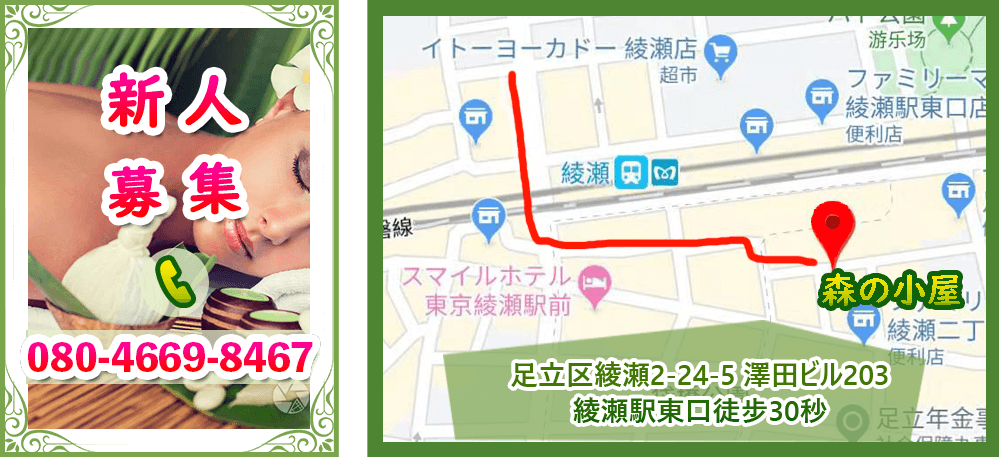
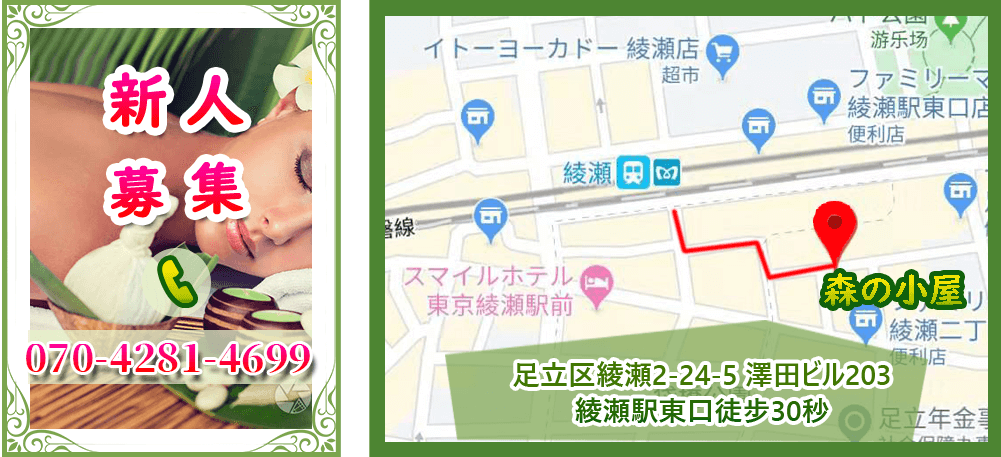
ｈ
d

diff --git a/recruit.html b/recruit.html
@@ -1,2 +1,2 @@
-<!DOCTYPE html><html><head><meta charset="utf-8"/><title>森の小屋in綾瀬駅東口30秒リラクセーション　マッサージ　メンズエステ　リンパマッサージ【森の小屋】</title><meta name="keywords" content="森の小屋綾瀬駅東口30秒エステ,森の小屋アジア，アロママッサージ,精力回復,ストレス解消,アロマオイル,ボディケア,フットケア"/><meta name="description" content="綾瀬駅東口30秒本格アロママッサージ，森の小屋でございます，オイルマッサージで精力を増強します，仕事のストレスを解消いただきます。"/><meta name="viewport" content="width=device-width,user-scalable=yes"/><script src="https://cdn.staticfile.org/jquery/1.10.2/jquery.min.js"></script><link rel="stylesheet" href="swiper.min.css"/><link rel="stylesheet" href="css/nav_top.css"/></head><body class="body"><div class="top"><a class="tel" href="tel://08046698467"><div class="tels"></div></a></div><div class="navLage"><div class="navButton"><a href="index.html"><img src="img/images/nav_01.png"/></a></div><div class="navButton"><a href="system.html"><img src="img/images/nav_02.png"/></a></div><div class="navButton"><a href="girl.html"><img src="img/images/nav_03.png"/></a></div><div class="navButton"><a href="room.html"><img src="img/images/nav_07.png"/></a></div><div class="navButton"><a href="access.html"><img src="img/images/nav_05.png"/></a></div><div class="navButton"><a href="recruit.html"><img src="img/images/nav_06.png"/></a></div></div></body></html><link rel="stylesheet" href="css/4page.css"/><div class="Titles"><div class="recruittitle"></div></div><div class="recruit"><div><p>業&nbsp;種</p><p>リラクセーション</p></div><div style="height: 115px;"><p>給&nbsp;与</p><p style="height: 80px;">日払い OK!<br/>※高額保証制度有り<br/>ボーナス制度有り</p></div><div><p>時&nbsp;間&nbsp;</p><p>11:00～Last</p></div><div><p>資&nbsp;格&nbsp;</p><p>18歳～30歳位まで</p></div><div><p>勤務日&nbsp;</p><p>自&nbsp;由</p></div><div><p>応&nbsp;募&nbsp;</p><p>お電話の上、お気軽にご来店下さい。</p></div><div style="height: 136px;"><p>待&nbsp;遇&nbsp;</p><p style="height: 103px;">完全全額日払制、高額保証制度有り、個室待機制(TV・冷蔵庫・シャワー完備)、衛生管理万全、ノルマ・罰金一切なし、店内見学&amp;1日体験入店大歓迎</p></div><div><p>電&nbsp;話&nbsp;</p><p> <a href="tel://08046698467">tel：080-4669-8467</a></p></div></div><div class="telephonea"><a href="tel://08046698467"><div class="tele"></div></a></div><div class="endimg"><a href="http://www.a-side.com/" title="アジアンエステのエーサイド" target="_blank"><img src="http://www.a-side.com/banner/a-side_1m.gif" width="150" height="40" style="object-fit: contain;"  alt="アジアンエステのエーサイド"><br></a>
+<!DOCTYPE html><html><head><meta charset="utf-8"/><title>森の小屋in綾瀬駅東口30秒リラクセーション　マッサージ　メンズエステ　リンパマッサージ【森の小屋】</title><meta name="keywords" content="森の小屋綾瀬駅東口30秒エステ,森の小屋アジア，アロママッサージ,精力回復,ストレス解消,アロマオイル,ボディケア,フットケア"/><meta name="description" content="綾瀬駅東口30秒本格アロママッサージ，森の小屋でございます，オイルマッサージで精力を増強します，仕事のストレスを解消いただきます。"/><meta name="viewport" content="width=device-width,user-scalable=yes"/><script src="https://cdn.staticfile.org/jquery/1.10.2/jquery.min.js"></script><link rel="stylesheet" href="swiper.min.css"/><link rel="stylesheet" href="css/nav_top.css"/></head><body class="body"><div class="top"><a class="tel" href="tel://07042814699"><div class="tels"></div></a></div><div class="navLage"><div class="navButton"><a href="index.html"><img src="img/images/nav_01.png"/></a></div><div class="navButton"><a href="system.html"><img src="img/images/nav_02.png"/></a></div><div class="navButton"><a href="girl.html"><img src="img/images/nav_03.png"/></a></div><div class="navButton"><a href="room.html"><img src="img/images/nav_07.png"/></a></div><div class="navButton"><a href="access.html"><img src="img/images/nav_05.png"/></a></div><div class="navButton"><a href="recruit.html"><img src="img/images/nav_06.png"/></a></div></div></body></html><link rel="stylesheet" href="css/4page.css"/><div class="Titles"><div class="recruittitle"></div></div><div class="recruit"><div><p>業&nbsp;種</p><p>リラクセーション</p></div><div style="height: 115px;"><p>給&nbsp;与</p><p style="height: 80px;">日払い OK!<br/>※高額保証制度有り<br/>ボーナス制度有り</p></div><div><p>時&nbsp;間&nbsp;</p><p>11:00～Last</p></div><div><p>資&nbsp;格&nbsp;</p><p>18歳～30歳位まで</p></div><div><p>勤務日&nbsp;</p><p>自&nbsp;由</p></div><div><p>応&nbsp;募&nbsp;</p><p>お電話の上、お気軽にご来店下さい。</p></div><div style="height: 136px;"><p>待&nbsp;遇&nbsp;</p><p style="height: 103px;">完全全額日払制、高額保証制度有り、個室待機制(TV・冷蔵庫・シャワー完備)、衛生管理万全、ノルマ・罰金一切なし、店内見学&amp;1日体験入店大歓迎</p></div><div><p>電&nbsp;話&nbsp;</p><p> <a href="tel://07042814699">tel：070ー4281ー4699</a></p></div></div><div class="telephonea"><a href="tel://07042814699"><div class="tele"></div></a></div><div class="endimg"><a href="http://www.a-side.com/" title="アジアンエステのエーサイド" target="_blank"><img src="http://www.a-side.com/banner/a-side_1m.gif" width="150" height="40" style="object-fit: contain;"  alt="アジアンエステのエーサイド"><br></a>
 <a href="https://www.es-navi.com/" target="_blank"><img src="https://img.es-navi.com/banners/es-navi_150x40.gif" width="150" height="40" style="object-fit: contain;" alt="エステナビ～全国のエステ検索の決定版！"><br></a></div><h1>森の小屋in綾瀬駅東口30秒</h1><script src="swiper.min.js"></script><script src="js/index.js"></script><script>divHeight(2.0,"focus");</script>

diff --git a/access.html b/access.html
@@ -1,2 +1,2 @@
-<!DOCTYPE html><html><head><meta charset="utf-8"/><title>森の小屋in綾瀬駅東口30秒リラクセーション　マッサージ　メンズエステ　リンパマッサージ【森の小屋】</title><meta name="keywords" content="森の小屋綾瀬駅東口30秒エステ,森の小屋アジア，アロママッサージ,精力回復,ストレス解消,アロマオイル,ボディケア,フットケア"/><meta name="description" content="綾瀬駅東口30秒本格アロママッサージ，森の小屋でございます，オイルマッサージで精力を増強します，仕事のストレスを解消いただきます。"/><meta name="viewport" content="width=device-width,user-scalable=yes"/><script src="https://cdn.staticfile.org/jquery/1.10.2/jquery.min.js"></script><link rel="stylesheet" href="swiper.min.css"/><link rel="stylesheet" href="css/nav_top.css"/></head><body class="body"><div class="top"><a class="tel" href="tel://08046698467"><div class="tels"></div></a></div><div class="navLage"><div class="navButton"><a href="index.html"><img src="img/images/nav_01.png"/></a></div><div class="navButton"><a href="system.html"><img src="img/images/nav_02.png"/></a></div><div class="navButton"><a href="girl.html"><img src="img/images/nav_03.png"/></a></div><div class="navButton"><a href="room.html"><img src="img/images/nav_07.png"/></a></div><div class="navButton"><a href="access.html"><img src="img/images/nav_05.png"/></a></div><div class="navButton"><a href="recruit.html"><img src="img/images/nav_06.png"/></a></div></div></body></html><link rel="stylesheet" href="css/4page.css"/><div class="Titles"><div class="accesstitle"></div></div><div class="access"><iframe src="https://www.google.com/maps/embed?pb=!1m18!1m12!1m3!1d3237.5662031985717!2d139.82432901513218!3d35.761465633175085!2m3!1f0!2f0!3f0!3m2!1i1024!2i768!4f13.1!3m3!1m2!1s0x60188fb99d93e459%3A0x48030381bbdf1557!2z44CSMTIwLTAwMDUgVMWNa3nFjS10bywgQWRhY2hpIENpdHksIEF5YXNlLCAyLWNoxY1tZeKIkjI04oiSNSDmvqTnlLDjg5Pjg6s!5e0!3m2!1szh-CN!2sjp!4v1581159376765!5m2!1szh-CN!2sjp" width="600" height="750" frameborder="0" style="border:0;" allowfullscreen=""></iframe><div class="address">綾瀬駅東口30秒</div><div class="address">足立区綾瀬2-24-5 澤田ビル203</div><div class="teleph"><a href="tel://08046698467">tel：080-4669-8467</a></div></div><div class="telephonea"><a href="tel://080-4669-8467"><div class="tele"></div></a></div><div class="endimg"><a href="http://www.a-side.com/" title="アジアンエステのエーサイド" target="_blank"><img src="http://www.a-side.com/banner/a-side_1m.gif" width="150" height="40" style="object-fit: contain;"  alt="アジアンエステのエーサイド"><br></a>
+<!DOCTYPE html><html><head><meta charset="utf-8"/><title>森の小屋in綾瀬駅東口30秒リラクセーション　マッサージ　メンズエステ　リンパマッサージ【森の小屋】</title><meta name="keywords" content="森の小屋綾瀬駅東口30秒エステ,森の小屋アジア，アロママッサージ,精力回復,ストレス解消,アロマオイル,ボディケア,フットケア"/><meta name="description" content="綾瀬駅東口30秒本格アロママッサージ，森の小屋でございます，オイルマッサージで精力を増強します，仕事のストレスを解消いただきます。"/><meta name="viewport" content="width=device-width,user-scalable=yes"/><script src="https://cdn.staticfile.org/jquery/1.10.2/jquery.min.js"></script><link rel="stylesheet" href="swiper.min.css"/><link rel="stylesheet" href="css/nav_top.css"/></head><body class="body"><div class="top"><a class="tel" href="tel://07042814699"><div class="tels"></div></a></div><div class="navLage"><div class="navButton"><a href="index.html"><img src="img/images/nav_01.png"/></a></div><div class="navButton"><a href="system.html"><img src="img/images/nav_02.png"/></a></div><div class="navButton"><a href="girl.html"><img src="img/images/nav_03.png"/></a></div><div class="navButton"><a href="room.html"><img src="img/images/nav_07.png"/></a></div><div class="navButton"><a href="access.html"><img src="img/images/nav_05.png"/></a></div><div class="navButton"><a href="recruit.html"><img src="img/images/nav_06.png"/></a></div></div></body></html><link rel="stylesheet" href="css/4page.css"/><div class="Titles"><div class="accesstitle"></div></div><div class="access"><iframe src="https://www.google.com/maps/embed?pb=!1m18!1m12!1m3!1d3237.5662031985717!2d139.82432901513218!3d35.761465633175085!2m3!1f0!2f0!3f0!3m2!1i1024!2i768!4f13.1!3m3!1m2!1s0x60188fb99d93e459%3A0x48030381bbdf1557!2z44CSMTIwLTAwMDUgVMWNa3nFjS10bywgQWRhY2hpIENpdHksIEF5YXNlLCAyLWNoxY1tZeKIkjI04oiSNSDmvqTnlLDjg5Pjg6s!5e0!3m2!1szh-CN!2sjp!4v1581159376765!5m2!1szh-CN!2sjp" width="600" height="750" frameborder="0" style="border:0;" allowfullscreen=""></iframe><div class="address">綾瀬駅東口30秒</div><div class="address">足立区綾瀬2-24-5 澤田ビル203</div><div class="teleph"><a href="tel://07042814699">tel：070-4281-4699</a></div></div><div class="telephonea"><a href="tel://07042814699"><div class="tele"></div></a></div><div class="endimg"><a href="http://www.a-side.com/" title="アジアンエステのエーサイド" target="_blank"><img src="http://www.a-side.com/banner/a-side_1m.gif" width="150" height="40" style="object-fit: contain;"  alt="アジアンエステのエーサイド"><br></a>
 <a href="https://www.es-navi.com/" target="_blank"><img src="https://img.es-navi.com/banners/es-navi_150x40.gif" width="150" height="40" style="object-fit: contain;" alt="エステナビ～全国のエステ検索の決定版！"><br></a></div><h1>森の小屋in綾瀬駅東口30秒</h1><script src="swiper.min.js"></script><script src="js/index.js"></script>

diff --git a/index.html b/index.html
@@ -1,2 +1,2 @@
-<!DOCTYPE html><html><head><meta charset="utf-8"/><title>森の小屋in綾瀬駅東口30秒リラクセーション　マッサージ　メンズエステ　リンパマッサージ【森の小屋】</title><meta name="keywords" content="森の小屋綾瀬駅東口30秒エステ,森の小屋アジア，アロママッサージ,精力回復,ストレス解消,アロマオイル,ボディケア,フットケア"/><meta name="description" content="綾瀬駅東口30秒本格アロママッサージ，森の小屋でございます，オイルマッサージで精力を増強します，仕事のストレスを解消いただきます。"/><meta name="viewport" content="width=device-width,user-scalable=yes"/><script src="https://cdn.staticfile.org/jquery/1.10.2/jquery.min.js"></script><link rel="stylesheet" href="swiper.min.css"/><link rel="stylesheet" href="css/nav_top.css"/></head><body class="body"><div class="top"><a class="tel" href="tel://08046698467"><div class="tels"></div></a></div><div class="navLage"><div class="navButton"><a href="index.html"><img src="img/images/nav_01.png"/></a></div><div class="navButton"><a href="system.html"><img src="img/images/nav_02.png"/></a></div><div class="navButton"><a href="girl.html"><img src="img/images/nav_03.png"/></a></div><div class="navButton"><a href="room.html"><img src="img/images/nav_07.png"/></a></div><div class="navButton"><a href="access.html"><img src="img/images/nav_05.png"/></a></div><div class="navButton"><a href="recruit.html"><img src="img/images/nav_06.png"/></a></div></div></body></html><div class="asd"></div><div class="wrap"><ul id="pcGirlAll"></ul></div><link rel="stylesheet" href="css/index.css"/><div class="event" id="event"></div><div class="newsTitle"></div><div class="aaa"><div class="girlPhoto"><div class="swiper-container" id="Swiper0"><div class="swiper-wrapper" id="PcGirlPhoto"></div></div></div><div class="newsAndMolir"><div class="news"><div class="newsText"><div class="text" id="catchMynews1"></div></div></div></div></div><div class="indexlink1"></div><div class="telephonea"><a href="tel://08046698467"><div class="tele"></div></a></div><div class="endimg"><a href="http://www.a-side.com/" title="アジアンエステのエーサイド" target="_blank"><img src="http://www.a-side.com/banner/a-side_1m.gif" width="150" height="40" style="object-fit: contain;"  alt="アジアンエステのエーサイド"><br></a>
+<!DOCTYPE html><html><head><meta charset="utf-8"/><title>森の小屋in綾瀬駅東口30秒リラクセーション　マッサージ　メンズエステ　リンパマッサージ【森の小屋】</title><meta name="keywords" content="森の小屋綾瀬駅東口30秒エステ,森の小屋アジア，アロママッサージ,精力回復,ストレス解消,アロマオイル,ボディケア,フットケア"/><meta name="description" content="綾瀬駅東口30秒本格アロママッサージ，森の小屋でございます，オイルマッサージで精力を増強します，仕事のストレスを解消いただきます。"/><meta name="viewport" content="width=device-width,user-scalable=yes"/><script src="https://cdn.staticfile.org/jquery/1.10.2/jquery.min.js"></script><link rel="stylesheet" href="swiper.min.css"/><link rel="stylesheet" href="css/nav_top.css"/></head><body class="body"><div class="top"><a class="tel" href="tel://07042814699"><div class="tels"></div></a></div><div class="navLage"><div class="navButton"><a href="index.html"><img src="img/images/nav_01.png"/></a></div><div class="navButton"><a href="system.html"><img src="img/images/nav_02.png"/></a></div><div class="navButton"><a href="girl.html"><img src="img/images/nav_03.png"/></a></div><div class="navButton"><a href="room.html"><img src="img/images/nav_07.png"/></a></div><div class="navButton"><a href="access.html"><img src="img/images/nav_05.png"/></a></div><div class="navButton"><a href="recruit.html"><img src="img/images/nav_06.png"/></a></div></div></body></html><div class="asd"></div><div class="wrap"><ul id="pcGirlAll"></ul></div><link rel="stylesheet" href="css/index.css"/><div class="event" id="event"></div><div class="newsTitle"></div><div class="aaa"><div class="girlPhoto"><div class="swiper-container" id="Swiper0"><div class="swiper-wrapper" id="PcGirlPhoto"></div></div></div><div class="newsAndMolir"><div class="news"><div class="newsText"><div class="text" id="catchMynews1"></div></div></div></div></div><div class="indexlink1"></div><div class="telephonea"><a href="tel://07042814699"><div class="tele"></div></a></div><div class="endimg"><a href="http://www.a-side.com/" title="アジアンエステのエーサイド" target="_blank"><img src="http://www.a-side.com/banner/a-side_1m.gif" width="150" height="40" style="object-fit: contain;"  alt="アジアンエステのエーサイド"><br></a>
 <a href="https://www.es-navi.com/" target="_blank"><img src="https://img.es-navi.com/banners/es-navi_150x40.gif" width="150" height="40" style="object-fit: contain;" alt="エステナビ～全国のエステ検索の決定版！"><br></a></div><h1>森の小屋in綾瀬駅東口30秒</h1><script src="swiper.min.js"></script><script src="js/index.js"></script><script src="js/girl.js"></script>

diff --git a/girl.html b/girl.html
@@ -1,4 +1,4 @@
-<!DOCTYPE html><html><head><meta charset="utf-8"/><title>森の小屋in綾瀬駅東口30秒リラクセーション　マッサージ　メンズエステ　リンパマッサージ【森の小屋】</title><meta name="keywords" content="森の小屋綾瀬駅東口30秒エステ,森の小屋アジア，アロママッサージ,精力回復,ストレス解消,アロマオイル,ボディケア,フットケア"/><meta name="description" content="綾瀬駅東口30秒本格アロママッサージ，森の小屋でございます，オイルマッサージで精力を増強します，仕事のストレスを解消いただきます。"/><meta name="viewport" content="width=device-width,user-scalable=yes"/><script src="https://cdn.staticfile.org/jquery/1.10.2/jquery.min.js"></script><link rel="stylesheet" href="swiper.min.css"/><link rel="stylesheet" href="css/nav_top.css"/></head><body class="body"><div class="top"><a class="tel" href="tel://08046698467"><div class="tels"></div></a></div><div class="navLage"><div class="navButton"><a href="index.html"><img src="img/images/nav_01.png"/></a></div><div class="navButton"><a href="system.html"><img src="img/images/nav_02.png"/></a></div><div class="navButton"><a href="girl.html"><img src="img/images/nav_03.png"/></a></div><div class="navButton"><a href="room.html"><img src="img/images/nav_07.png"/></a></div><div class="navButton"><a href="access.html"><img src="img/images/nav_05.png"/></a></div><div class="navButton"><a href="recruit.html"><img src="img/images/nav_06.png"/></a></div></div></body></html><link rel="stylesheet" href="css/staff.css"/><div class="Titles"><div class="stafftitle"></div></div><div id="getMyStaff"></div><div class="telephonea"><a href="tel://08046698467"><div class="tele"></div></a></div><div class="endimg"><a href="http://www.a-side.com/" title="アジアンエステのエーサイド" target="_blank"><img src="http://www.a-side.com/banner/a-side_1m.gif" width="150" height="40" style="object-fit: contain;"  alt="アジアンエステのエーサイド"><br></a>
+<!DOCTYPE html><html><head><meta charset="utf-8"/><title>森の小屋in綾瀬駅東口30秒リラクセーション　マッサージ　メンズエステ　リンパマッサージ【森の小屋】</title><meta name="keywords" content="森の小屋綾瀬駅東口30秒エステ,森の小屋アジア，アロママッサージ,精力回復,ストレス解消,アロマオイル,ボディケア,フットケア"/><meta name="description" content="綾瀬駅東口30秒本格アロママッサージ，森の小屋でございます，オイルマッサージで精力を増強します，仕事のストレスを解消いただきます。"/><meta name="viewport" content="width=device-width,user-scalable=yes"/><script src="https://cdn.staticfile.org/jquery/1.10.2/jquery.min.js"></script><link rel="stylesheet" href="swiper.min.css"/><link rel="stylesheet" href="css/nav_top.css"/></head><body class="body"><div class="top"><a class="tel" href="tel://07042814699"><div class="tels"></div></a></div><div class="navLage"><div class="navButton"><a href="index.html"><img src="img/images/nav_01.png"/></a></div><div class="navButton"><a href="system.html"><img src="img/images/nav_02.png"/></a></div><div class="navButton"><a href="girl.html"><img src="img/images/nav_03.png"/></a></div><div class="navButton"><a href="room.html"><img src="img/images/nav_07.png"/></a></div><div class="navButton"><a href="access.html"><img src="img/images/nav_05.png"/></a></div><div class="navButton"><a href="recruit.html"><img src="img/images/nav_06.png"/></a></div></div></body></html><link rel="stylesheet" href="css/staff.css"/><div class="Titles"><div class="stafftitle"></div></div><div id="getMyStaff"></div><div class="telephonea"><a href="tel://07042814699"><div class="tele"></div></a></div><div class="endimg"><a href="http://www.a-side.com/" title="アジアンエステのエーサイド" target="_blank"><img src="http://www.a-side.com/banner/a-side_1m.gif" width="150" height="40" style="object-fit: contain;"  alt="アジアンエステのエーサイド"><br></a>
 <a href="https://www.es-navi.com/" target="_blank"><img src="https://img.es-navi.com/banners/es-navi_150x40.gif" width="150" height="40" style="object-fit: contain;" alt="エステナビ～全国のエステ検索の決定版！"><br></a></div><h1>森の小屋in綾瀬駅東口30秒</h1><script src="swiper.min.js"></script><script src="js/index.js"></script><script>var myApi ="https://test-cms-alpha.herokuapp.com/sites/4/profiles.json"
  var myList = document.getElementById('getMyStaff');
 function loadMyStaff(){

diff --git a/room.html b/room.html
@@ -1,2 +1,2 @@
-<!DOCTYPE html><html><head><meta charset="utf-8"/><title>森の小屋in綾瀬駅東口30秒リラクセーション　マッサージ　メンズエステ　リンパマッサージ【森の小屋】</title><meta name="keywords" content="森の小屋綾瀬駅東口30秒エステ,森の小屋アジア，アロママッサージ,精力回復,ストレス解消,アロマオイル,ボディケア,フットケア"/><meta name="description" content="綾瀬駅東口30秒本格アロママッサージ，森の小屋でございます，オイルマッサージで精力を増強します，仕事のストレスを解消いただきます。"/><meta name="viewport" content="width=device-width,user-scalable=yes"/><script src="https://cdn.staticfile.org/jquery/1.10.2/jquery.min.js"></script><link rel="stylesheet" href="swiper.min.css"/><link rel="stylesheet" href="css/nav_top.css"/></head><body class="body"><div class="top"><a class="tel" href="tel://08046698467"><div class="tels"></div></a></div><div class="navLage"><div class="navButton"><a href="index.html"><img src="img/images/nav_01.png"/></a></div><div class="navButton"><a href="system.html"><img src="img/images/nav_02.png"/></a></div><div class="navButton"><a href="girl.html"><img src="img/images/nav_03.png"/></a></div><div class="navButton"><a href="room.html"><img src="img/images/nav_07.png"/></a></div><div class="navButton"><a href="access.html"><img src="img/images/nav_05.png"/></a></div><div class="navButton"><a href="recruit.html"><img src="img/images/nav_06.png"/></a></div></div></body></html><link rel="stylesheet" href="css/4page.css"/><div class="Titles"><div class="roomtitle"></div></div><div class="room"></div><div class="telephonea"><a href="tel://08046698467"><div class="tele"></div></a></div><div class="endimg"><a href="http://www.a-side.com/" title="アジアンエステのエーサイド" target="_blank"><img src="http://www.a-side.com/banner/a-side_1m.gif" width="150" height="40" style="object-fit: contain;"  alt="アジアンエステのエーサイド"><br></a>
+<!DOCTYPE html><html><head><meta charset="utf-8"/><title>森の小屋in綾瀬駅東口30秒リラクセーション　マッサージ　メンズエステ　リンパマッサージ【森の小屋】</title><meta name="keywords" content="森の小屋綾瀬駅東口30秒エステ,森の小屋アジア，アロママッサージ,精力回復,ストレス解消,アロマオイル,ボディケア,フットケア"/><meta name="description" content="綾瀬駅東口30秒本格アロママッサージ，森の小屋でございます，オイルマッサージで精力を増強します，仕事のストレスを解消いただきます。"/><meta name="viewport" content="width=device-width,user-scalable=yes"/><script src="https://cdn.staticfile.org/jquery/1.10.2/jquery.min.js"></script><link rel="stylesheet" href="swiper.min.css"/><link rel="stylesheet" href="css/nav_top.css"/></head><body class="body"><div class="top"><a class="tel" href="tel://07042814699"><div class="tels"></div></a></div><div class="navLage"><div class="navButton"><a href="index.html"><img src="img/images/nav_01.png"/></a></div><div class="navButton"><a href="system.html"><img src="img/images/nav_02.png"/></a></div><div class="navButton"><a href="girl.html"><img src="img/images/nav_03.png"/></a></div><div class="navButton"><a href="room.html"><img src="img/images/nav_07.png"/></a></div><div class="navButton"><a href="access.html"><img src="img/images/nav_05.png"/></a></div><div class="navButton"><a href="recruit.html"><img src="img/images/nav_06.png"/></a></div></div></body></html><link rel="stylesheet" href="css/4page.css"/><div class="Titles"><div class="roomtitle"></div></div><div class="room"></div><div class="telephonea"><a href="tel://07042814699"><div class="tele"></div></a></div><div class="endimg"><a href="http://www.a-side.com/" title="アジアンエステのエーサイド" target="_blank"><img src="http://www.a-side.com/banner/a-side_1m.gif" width="150" height="40" style="object-fit: contain;"  alt="アジアンエステのエーサイド"><br></a>
 <a href="https://www.es-navi.com/" target="_blank"><img src="https://img.es-navi.com/banners/es-navi_150x40.gif" width="150" height="40" style="object-fit: contain;" alt="エステナビ～全国のエステ検索の決定版！"><br></a></div><h1>森の小屋in綾瀬駅東口30秒</h1><script src="swiper.min.js"></script><script src="js/index.js"></script>

diff --git a/system.html b/system.html
@@ -1,3 +1,3 @@
-<!DOCTYPE html><html><head><meta charset="utf-8"/><title>森の小屋in綾瀬駅東口30秒リラクセーション　マッサージ　メンズエステ　リンパマッサージ【森の小屋】</title><meta name="keywords" content="森の小屋綾瀬駅東口30秒エステ,森の小屋アジア，アロママッサージ,精力回復,ストレス解消,アロマオイル,ボディケア,フットケア"/><meta name="description" content="綾瀬駅東口30秒本格アロママッサージ，森の小屋でございます，オイルマッサージで精力を増強します，仕事のストレスを解消いただきます。"/><meta name="viewport" content="width=device-width,user-scalable=yes"/><script src="https://cdn.staticfile.org/jquery/1.10.2/jquery.min.js"></script><link rel="stylesheet" href="swiper.min.css"/><link rel="stylesheet" href="css/nav_top.css"/></head><body class="body"><div class="top"><a class="tel" href="tel://08046698467"><div class="tels"></div></a></div><div class="navLage"><div class="navButton"><a href="index.html"><img src="img/images/nav_01.png"/></a></div><div class="navButton"><a href="system.html"><img src="img/images/nav_02.png"/></a></div><div class="navButton"><a href="girl.html"><img src="img/images/nav_03.png"/></a></div><div class="navButton"><a href="room.html"><img src="img/images/nav_07.png"/></a></div><div class="navButton"><a href="access.html"><img src="img/images/nav_05.png"/></a></div><div class="navButton"><a href="recruit.html"><img src="img/images/nav_06.png"/></a></div></div></body></html><link rel="stylesheet" href="css/4page.css"/><div class="system" id="system"></div><div class="telephonea"><a href="tel://08046698467"><div class="tele"></div></a></div><div class="endimg"><a href="http://www.a-side.com/" title="アジアンエステのエーサイド" target="_blank"><img src="http://www.a-side.com/banner/a-side_1m.gif" width="150" height="40" style="object-fit: contain;"  alt="アジアンエステのエーサイド"><br></a>
+<!DOCTYPE html><html><head><meta charset="utf-8"/><title>森の小屋in綾瀬駅東口30秒リラクセーション　マッサージ　メンズエステ　リンパマッサージ【森の小屋】</title><meta name="keywords" content="森の小屋綾瀬駅東口30秒エステ,森の小屋アジア，アロママッサージ,精力回復,ストレス解消,アロマオイル,ボディケア,フットケア"/><meta name="description" content="綾瀬駅東口30秒本格アロママッサージ，森の小屋でございます，オイルマッサージで精力を増強します，仕事のストレスを解消いただきます。"/><meta name="viewport" content="width=device-width,user-scalable=yes"/><script src="https://cdn.staticfile.org/jquery/1.10.2/jquery.min.js"></script><link rel="stylesheet" href="swiper.min.css"/><link rel="stylesheet" href="css/nav_top.css"/></head><body class="body"><div class="top"><a class="tel" href="tel://07042814699"><div class="tels"></div></a></div><div class="navLage"><div class="navButton"><a href="index.html"><img src="img/images/nav_01.png"/></a></div><div class="navButton"><a href="system.html"><img src="img/images/nav_02.png"/></a></div><div class="navButton"><a href="girl.html"><img src="img/images/nav_03.png"/></a></div><div class="navButton"><a href="room.html"><img src="img/images/nav_07.png"/></a></div><div class="navButton"><a href="access.html"><img src="img/images/nav_05.png"/></a></div><div class="navButton"><a href="recruit.html"><img src="img/images/nav_06.png"/></a></div></div></body></html><link rel="stylesheet" href="css/4page.css"/><div class="system" id="system"></div><div class="telephonea"><a href="tel://07042814699"><div class="tele"></div></a></div><div class="endimg"><a href="http://www.a-side.com/" title="アジアンエステのエーサイド" target="_blank"><img src="http://www.a-side.com/banner/a-side_1m.gif" width="150" height="40" style="object-fit: contain;"  alt="アジアンエステのエーサイド"><br></a>
 <a href="https://www.es-navi.com/" target="_blank"><img src="https://img.es-navi.com/banners/es-navi_150x40.gif" width="150" height="40" style="object-fit: contain;" alt="エステナビ～全国のエステ検索の決定版！"><br></a></div><h1>森の小屋in綾瀬駅東口30秒</h1><script src="swiper.min.js"></script><script src="js/index.js"></script><script>divHeight(0.38,"system");
 divHeight(2.0,"focus");</script>

diff --git a/girl_big.html b/girl_big.html
@@ -1,4 +1,4 @@
-<!DOCTYPE html><html><head><meta charset="utf-8"/><title>森の小屋in綾瀬駅東口30秒リラクセーション　マッサージ　メンズエステ　リンパマッサージ【森の小屋】</title><meta name="keywords" content="森の小屋綾瀬駅東口30秒エステ,森の小屋アジア，アロママッサージ,精力回復,ストレス解消,アロマオイル,ボディケア,フットケア"/><meta name="description" content="綾瀬駅東口30秒本格アロママッサージ，森の小屋でございます，オイルマッサージで精力を増強します，仕事のストレスを解消いただきます。"/><meta name="viewport" content="width=device-width,user-scalable=yes"/><script src="https://cdn.staticfile.org/jquery/1.10.2/jquery.min.js"></script><link rel="stylesheet" href="swiper.min.css"/><link rel="stylesheet" href="css/nav_top.css"/></head><body class="body"><div class="top"><a class="tel" href="tel://08046698467"><div class="tels"></div></a></div><div class="navLage"><div class="navButton"><a href="index.html"><img src="img/images/nav_01.png"/></a></div><div class="navButton"><a href="system.html"><img src="img/images/nav_02.png"/></a></div><div class="navButton"><a href="girl.html"><img src="img/images/nav_03.png"/></a></div><div class="navButton"><a href="room.html"><img src="img/images/nav_07.png"/></a></div><div class="navButton"><a href="access.html"><img src="img/images/nav_05.png"/></a></div><div class="navButton"><a href="recruit.html"><img src="img/images/nav_06.png"/></a></div></div></body></html><script>var d =window.location.search.split("")
+<!DOCTYPE html><html><head><meta charset="utf-8"/><title>森の小屋in綾瀬駅東口30秒リラクセーション　マッサージ　メンズエステ　リンパマッサージ【森の小屋】</title><meta name="keywords" content="森の小屋綾瀬駅東口30秒エステ,森の小屋アジア，アロママッサージ,精力回復,ストレス解消,アロマオイル,ボディケア,フットケア"/><meta name="description" content="綾瀬駅東口30秒本格アロママッサージ，森の小屋でございます，オイルマッサージで精力を増強します，仕事のストレスを解消いただきます。"/><meta name="viewport" content="width=device-width,user-scalable=yes"/><script src="https://cdn.staticfile.org/jquery/1.10.2/jquery.min.js"></script><link rel="stylesheet" href="swiper.min.css"/><link rel="stylesheet" href="css/nav_top.css"/></head><body class="body"><div class="top"><a class="tel" href="tel://07042814699"><div class="tels"></div></a></div><div class="navLage"><div class="navButton"><a href="index.html"><img src="img/images/nav_01.png"/></a></div><div class="navButton"><a href="system.html"><img src="img/images/nav_02.png"/></a></div><div class="navButton"><a href="girl.html"><img src="img/images/nav_03.png"/></a></div><div class="navButton"><a href="room.html"><img src="img/images/nav_07.png"/></a></div><div class="navButton"><a href="access.html"><img src="img/images/nav_05.png"/></a></div><div class="navButton"><a href="recruit.html"><img src="img/images/nav_06.png"/></a></div></div></body></html><script>var d =window.location.search.split("")
 console.log(d);</script><link rel="stylesheet" href="css/staff1.css"/><div class="staff" id="aaa"><div class="swiper-scrollbar"></div></div><script>var apiList = document.getElementById('aaa');
 var myApi ="https://test-cms-alpha.herokuapp.com/sites/4/profiles.json";
 fetch(myApi)
